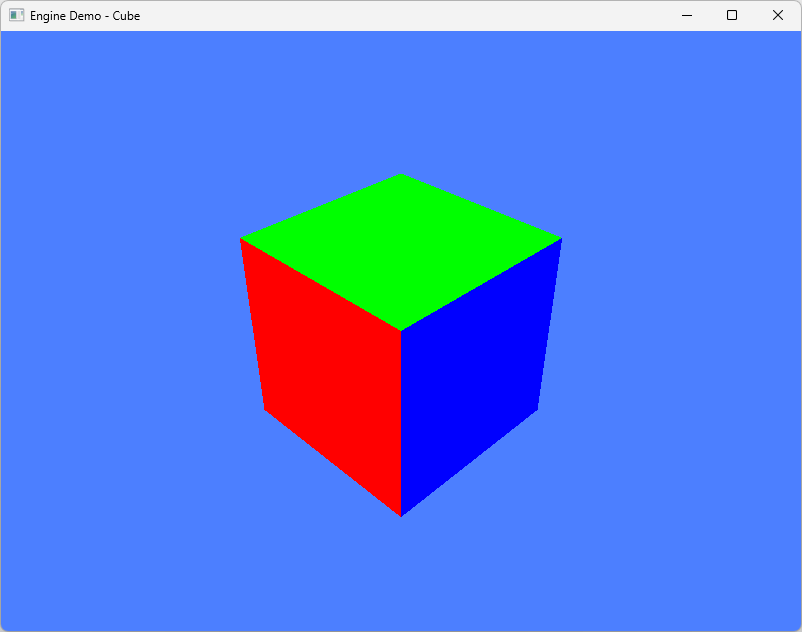
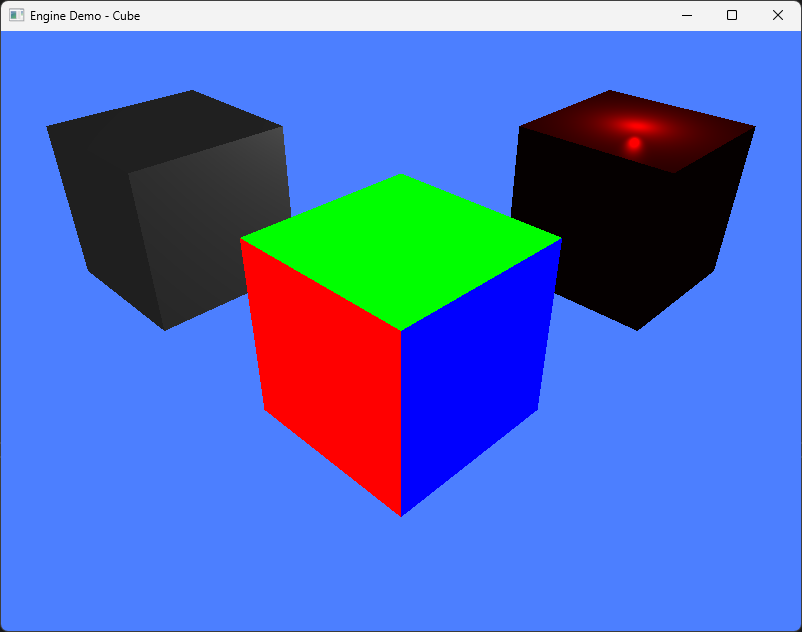
Fixed EngineDemo_SimpleCube bug

diff --git a/CoreDemos/EngineDemo_SimpleCube/EngineDemo_SimpleCube.cpp b/CoreDemos/EngineDemo_SimpleCube/EngineDemo_SimpleCube.cpp
@@ -1,31 +1,53 @@
 #include <URM/Engine/Engine.h>
 #include <URM/Engine/CameraObject.h>
 #include <URM/Engine/ModelObject.h>
+#include <URM/Core/StandardMaterials.h>
 
-using namespace DirectX;
+using namespace URM::Core;
+using namespace URM::Engine;
 
-struct NormalColorMaterial : public URM::Core::Material {
+struct NormalColorMaterial : public Material {
     const wchar_t* GetShaderFilePath() const override {
         return L"NormalColorPixelShader.cso";
 	}
 };
 
 int WinMain(HINSTANCE hInstance, HINSTANCE, LPSTR, int nCmdShow) {
-    URM::Engine::Engine engine(
-        URM::Core::WindowCreationParams(800, 600, "Engine Demo - Cube", hInstance)
+	// Utworzenie instancji silnika z parametrami okna
+    Engine engine(
+        WindowCreationParams(800, 600, "Engine Demo - Cube", hInstance)
     );
-	engine.renderParameters.clearColor = DirectX::SimpleMath::Color(0.3f, 0.5f, 1.0f);
+	// Ustawienie kolor tła
+	engine.renderParameters.clearColor = Color(0.3f, 0.5f, 1.0f);
 
-    auto camera = std::make_shared<URM::Engine::CameraObject>(45.0f);
+	// Utworzenie głównej kamery wraz z pozycją i kierunkiem
+    auto camera = std::make_shared<CameraObject>(45.0f);
 	camera->GetTransform().SetPosition({ 4.0f, 4.0f, 4.0f });
 	camera->GetTransform().LookAt({ 0.0f, 0.0f, 0.0f });
+	// Ustawienie kamery jako głównej kamery w scenie
 	engine.GetScene().SetMainCamera(camera);
     engine.GetScene().GetRoot().lock()->AddChild(camera);
 
-    auto newLight = engine.GetScene().GetRoot().lock()->AddChild(new URM::Engine::LightObject());
+	// Dodanie punktu światła do sceny
+    auto newLight = engine.GetScene().GetRoot().lock()->AddChild(new LightObject());
+	newLight->GetTransform().SetPosition({ -4.0f, 1.2f, 0.0f });
 
+	// Utworzenie obiektu z niestandardowym materiałem / shader'em
 	auto normalColorMaterial = std::shared_ptr<NormalColorMaterial>(new NormalColorMaterial());
-    engine.GetScene().GetRoot().lock()->AddChild(new URM::Engine::ModelObject("cube.glb", normalColorMaterial));
+    auto cube = engine.GetScene().GetRoot().lock()->AddChild(new ModelObject("cube.glb", normalColorMaterial));
+	cube->GetTransform().SetLocalPosition({ 0.0f, 0.0f, 0.0f });
 
+	// Utworzenie obiektu z materiałem prostym o czerwonym kolorze
+	auto standardMaterial = std::shared_ptr<MaterialSimple>(
+		new MaterialSimple(engine.GetCore(), MaterialSimpleData(128, Color(1, 0, 0, 1)))
+	);
+    auto cube2 = engine.GetScene().GetRoot().lock()->AddChild(new ModelObject("cube.glb", standardMaterial));
+	cube2->GetTransform().SetLocalPosition({ -4.0f, 0.0f, 0.0f });
+
+	// Utworzenie obiektu z domyślnym materiałem
+    auto cube3 = engine.GetScene().GetRoot().lock()->AddChild(new ModelObject("cube.glb"));
+    cube3->GetTransform().SetLocalPosition({ 0.0f, 0.0f, -4.0f });
+
+	// Uruchomienie pętli silnika
     engine.RunLoop();
 }
